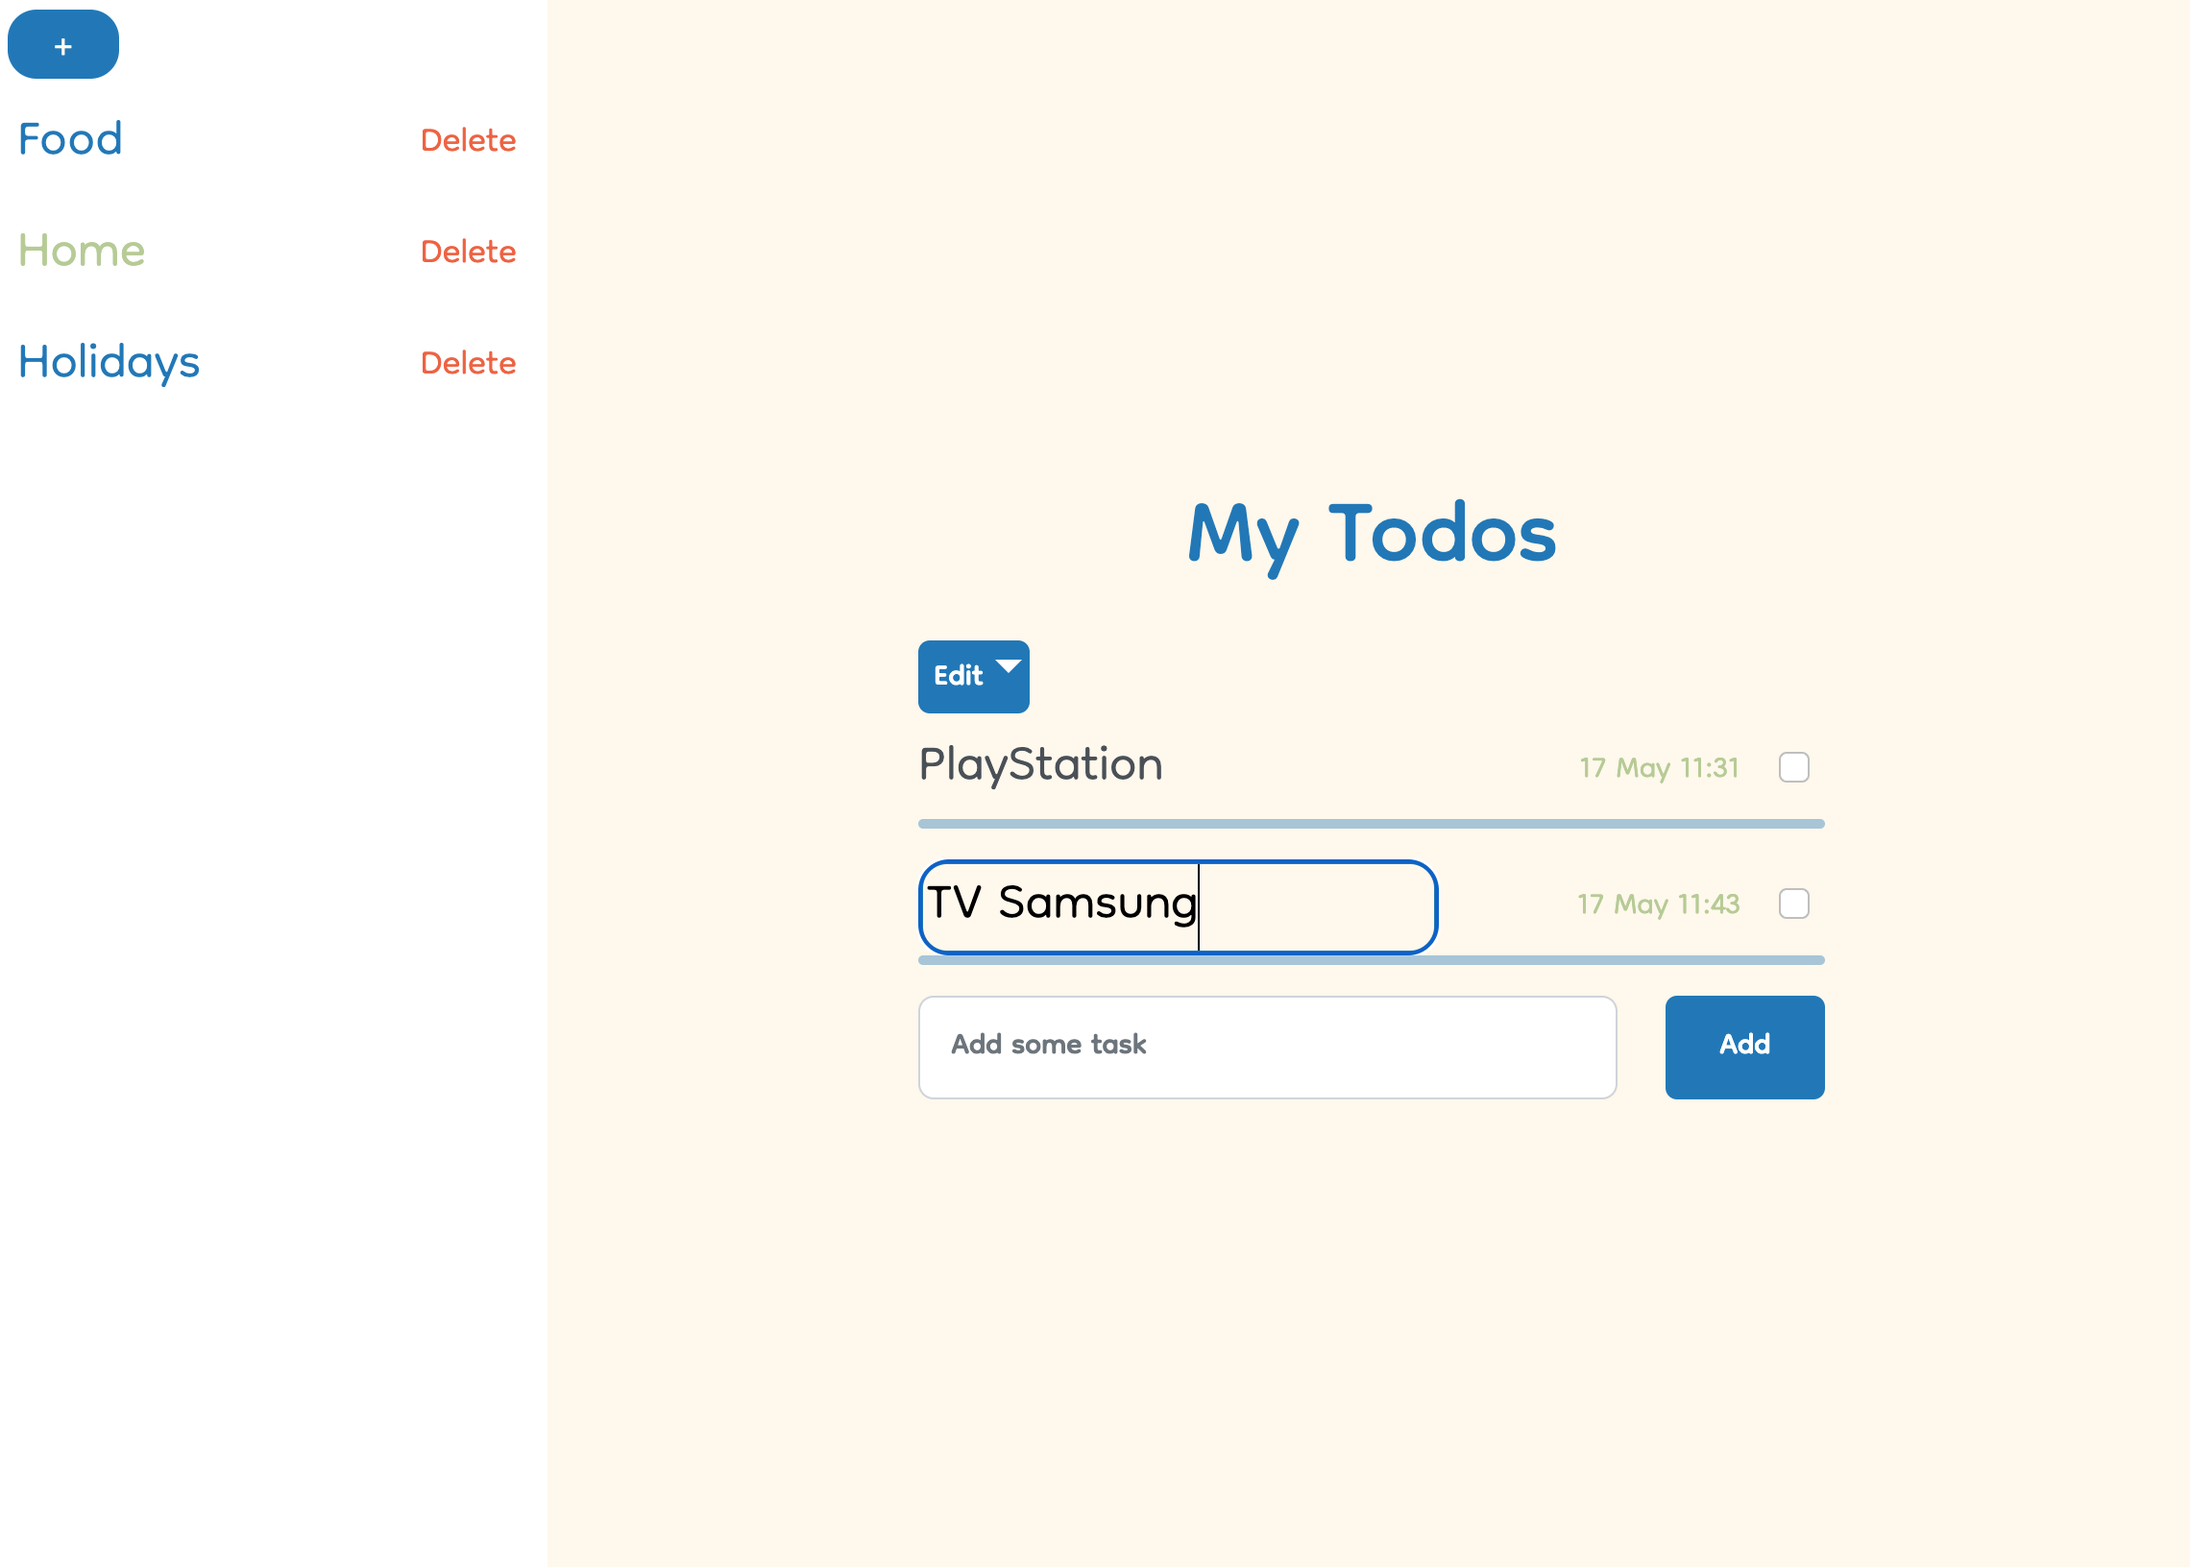
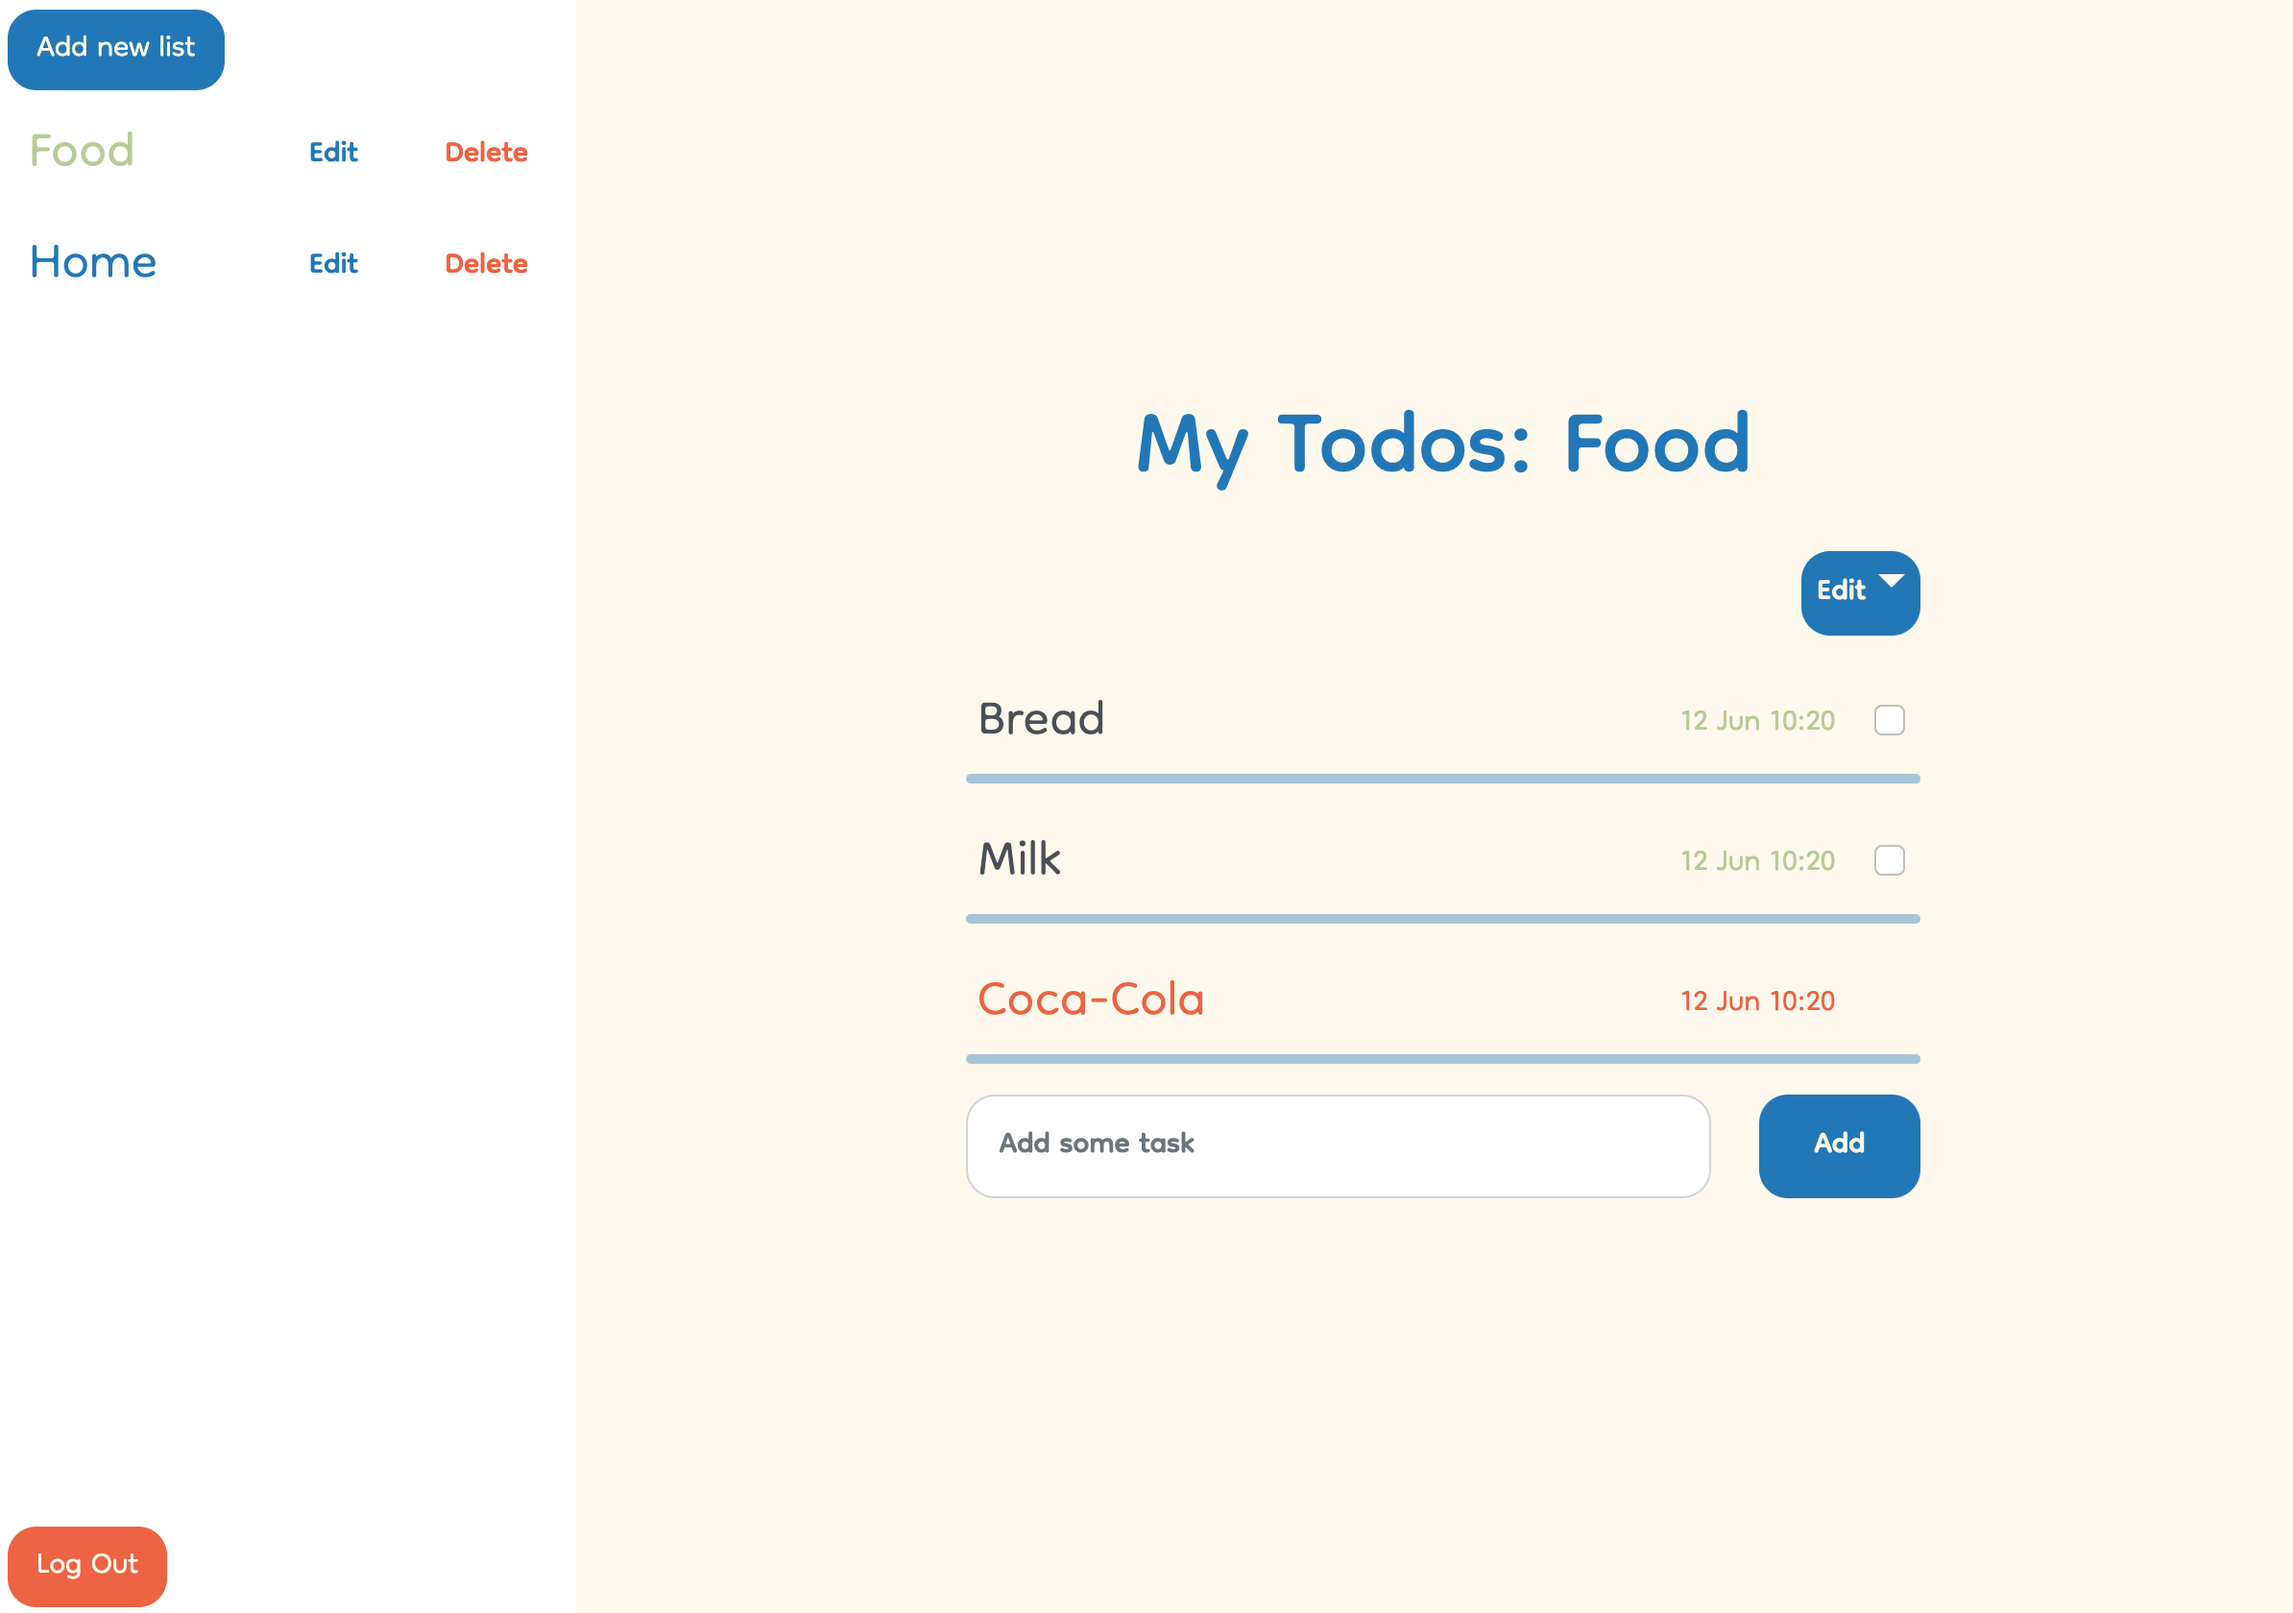
Made reusable inputBootstrap, changed border radious, upodated screenshots

diff --git a/frontend/src/styles/ButtonBootstrap.scss b/frontend/src/styles/ButtonBootstrap.scss
@@ -6,10 +6,11 @@
 .confirm-button-bootstrap {
   border: none;
   text-align: center;
-  width: 100px;
+  border-radius: 15px;
   font-family: $dongleRegular;
   font-size: 1.5rem;
   color: $colorVanilla;
+  width: 100px;
 
   &:hover {
     background-color: $colorBlue;
@@ -20,9 +21,9 @@
 .confirm-button-bootstrap-no-bg {
   @extend .confirm-button-bootstrap;
   text-align: right;
-  width: 200px;
   background-color: transparent;
   color: $colorBlue;
+  width: 200px;
 
   &:hover {
     background-color: transparent;

diff --git a/frontend/src/components/authentification/Authentification.scss b/frontend/src/components/authentification/Authentification.scss
@@ -1,6 +1,7 @@
 @import "/src/styles/variables";
-@import "/src/styles/ButtonBootstrap";
+@import "/src/styles/buttonBootstrap";
 @import "/src/styles/h1HTML";
+@import "/src/styles/inputBootstrap";
 
 .authentification {
   display: flex;
@@ -26,8 +27,7 @@
   }
 
   input {
-    font-family: $dongleRegular;
-    font-size: 1.5rem;
+    @extend .default-input-bootstrap;
   }
 
   .authentification-button {

diff --git a/frontend/src/components/forgot-password/ForgotPassword.scss b/frontend/src/components/forgot-password/ForgotPassword.scss
@@ -1,6 +1,7 @@
 @import "/src/styles/variables";
-@import "/src/styles/ButtonBootstrap";
+@import "/src/styles/buttonBootstrap";
 @import "/src/styles/h1HTML";
+@import "/src/styles/inputBootstrap";
 
 .forgot-password {
   display: flex;
@@ -18,8 +19,7 @@
   }
 
   input {
-    font-family: $dongleRegular;
-    font-size: 1.5rem;
+    @extend .default-input-bootstrap;
   }
 
   button {

diff --git a/frontend/src/components/new-password/NewPassword.scss b/frontend/src/components/new-password/NewPassword.scss
@@ -1,6 +1,7 @@
 @import "/src/styles/variables";
-@import "/src/styles/ButtonBootstrap";
+@import "/src/styles/buttonBootstrap";
 @import "/src/styles/h1HTML";
+@import "/src/styles/inputBootstrap";
 
 .new-password {
   display: flex;
@@ -18,8 +19,7 @@
   }
 
   input {
-    font-family: $dongleRegular;
-    font-size: 1.5rem;
+    @extend .default-input-bootstrap;
   }
 
   button {

diff --git a/frontend/src/components/create-new-task/CreateNewTask.scss b/frontend/src/components/create-new-task/CreateNewTask.scss
@@ -1,5 +1,6 @@
 @import "/src/styles/variables";
-@import "/src/styles/ButtonBootstrap";
+@import "/src/styles/buttonBootstrap";
+@import "/src/styles/inputBootstrap";
 
 .create-new-task {
   form {
@@ -8,8 +9,7 @@
   }
 
   input {
-    font-family: $dongleRegular;
-    font-size: 1.5rem;
+    @extend .default-input-bootstrap;
   }
 
   button {

diff --git a/frontend/src/styles/inputBootstrap.scss b/frontend/src/styles/inputBootstrap.scss
@@ -1,0 +1,10 @@
+// Bootstrap styles
+@import "~bootstrap/scss/functions";
+@import "~bootstrap/scss/mixins";
+@import "~bootstrap/scss/variables";
+
+.default-input-bootstrap {
+  border-radius: 15px;
+  font-family: $dongleRegular;
+  font-size: 1.5rem;
+}

diff --git a/frontend/src/components/completed-tasks-dropdown/CompletedTasksDropdown.scss b/frontend/src/components/completed-tasks-dropdown/CompletedTasksDropdown.scss
@@ -1,5 +1,5 @@
 @import "/src/styles/variables";
-@import "/src/styles/ButtonBootstrap";
+@import "/src/styles/buttonBootstrap";
 
 .completed-tasks-dropdown {
   margin: 5px 0 20px 0; 

diff --git a/frontend/src/components/email-confirmation/EmailConfirmation.scss b/frontend/src/components/email-confirmation/EmailConfirmation.scss
@@ -1,5 +1,5 @@
 @import "/src/styles/variables";
-@import "/src/styles/ButtonBootstrap";
+@import "/src/styles/buttonBootstrap";
 @import "/src/styles/h1HTML";
 
 .email-confirmation {

diff --git a/frontend/src/components/list/List.scss b/frontend/src/components/list/List.scss
@@ -1,5 +1,5 @@
 @import "/src/styles/variables";
-@import "/src/styles/ButtonBootstrap";
+@import "/src/styles/buttonBootstrap";
 @import "/src/styles/inputHTML";
 
 .list {

diff --git a/frontend/src/components/side-bar/SideBar.scss b/frontend/src/components/side-bar/SideBar.scss
@@ -1,5 +1,5 @@
 @import "/src/styles/variables";
-@import "/src/styles/ButtonBootstrap";
+@import "/src/styles/buttonBootstrap";
 
 .side-bar {
   margin: 0;

diff --git a/README.md b/README.md
@@ -4,7 +4,9 @@
 - TypeScript
 - Bootstrap
 
-<img src="./frontend/screenshots/0.png" width=456 height=326>
-<img src="./frontend/screenshots/1.png" width=456 height=326>
-<img src="./frontend/screenshots/2.png" width=456 height=326>
-<img src="./frontend/screenshots/3.png" width=456 height=326>
+<img src="./frontend/screenshots/1.png" width=477,6 height=336>
+<img src="./frontend/screenshots/2.png" width=477,6 height=336>
+<img src="./frontend/screenshots/3.png" width=477,6 height=336>
+<img src="./frontend/screenshots/4.png" width=477,6 height=336>
+<img src="./frontend/screenshots/5.png" width=477,6 height=336>
+<img src="./frontend/screenshots/6.png" width=477,6 height=336>
